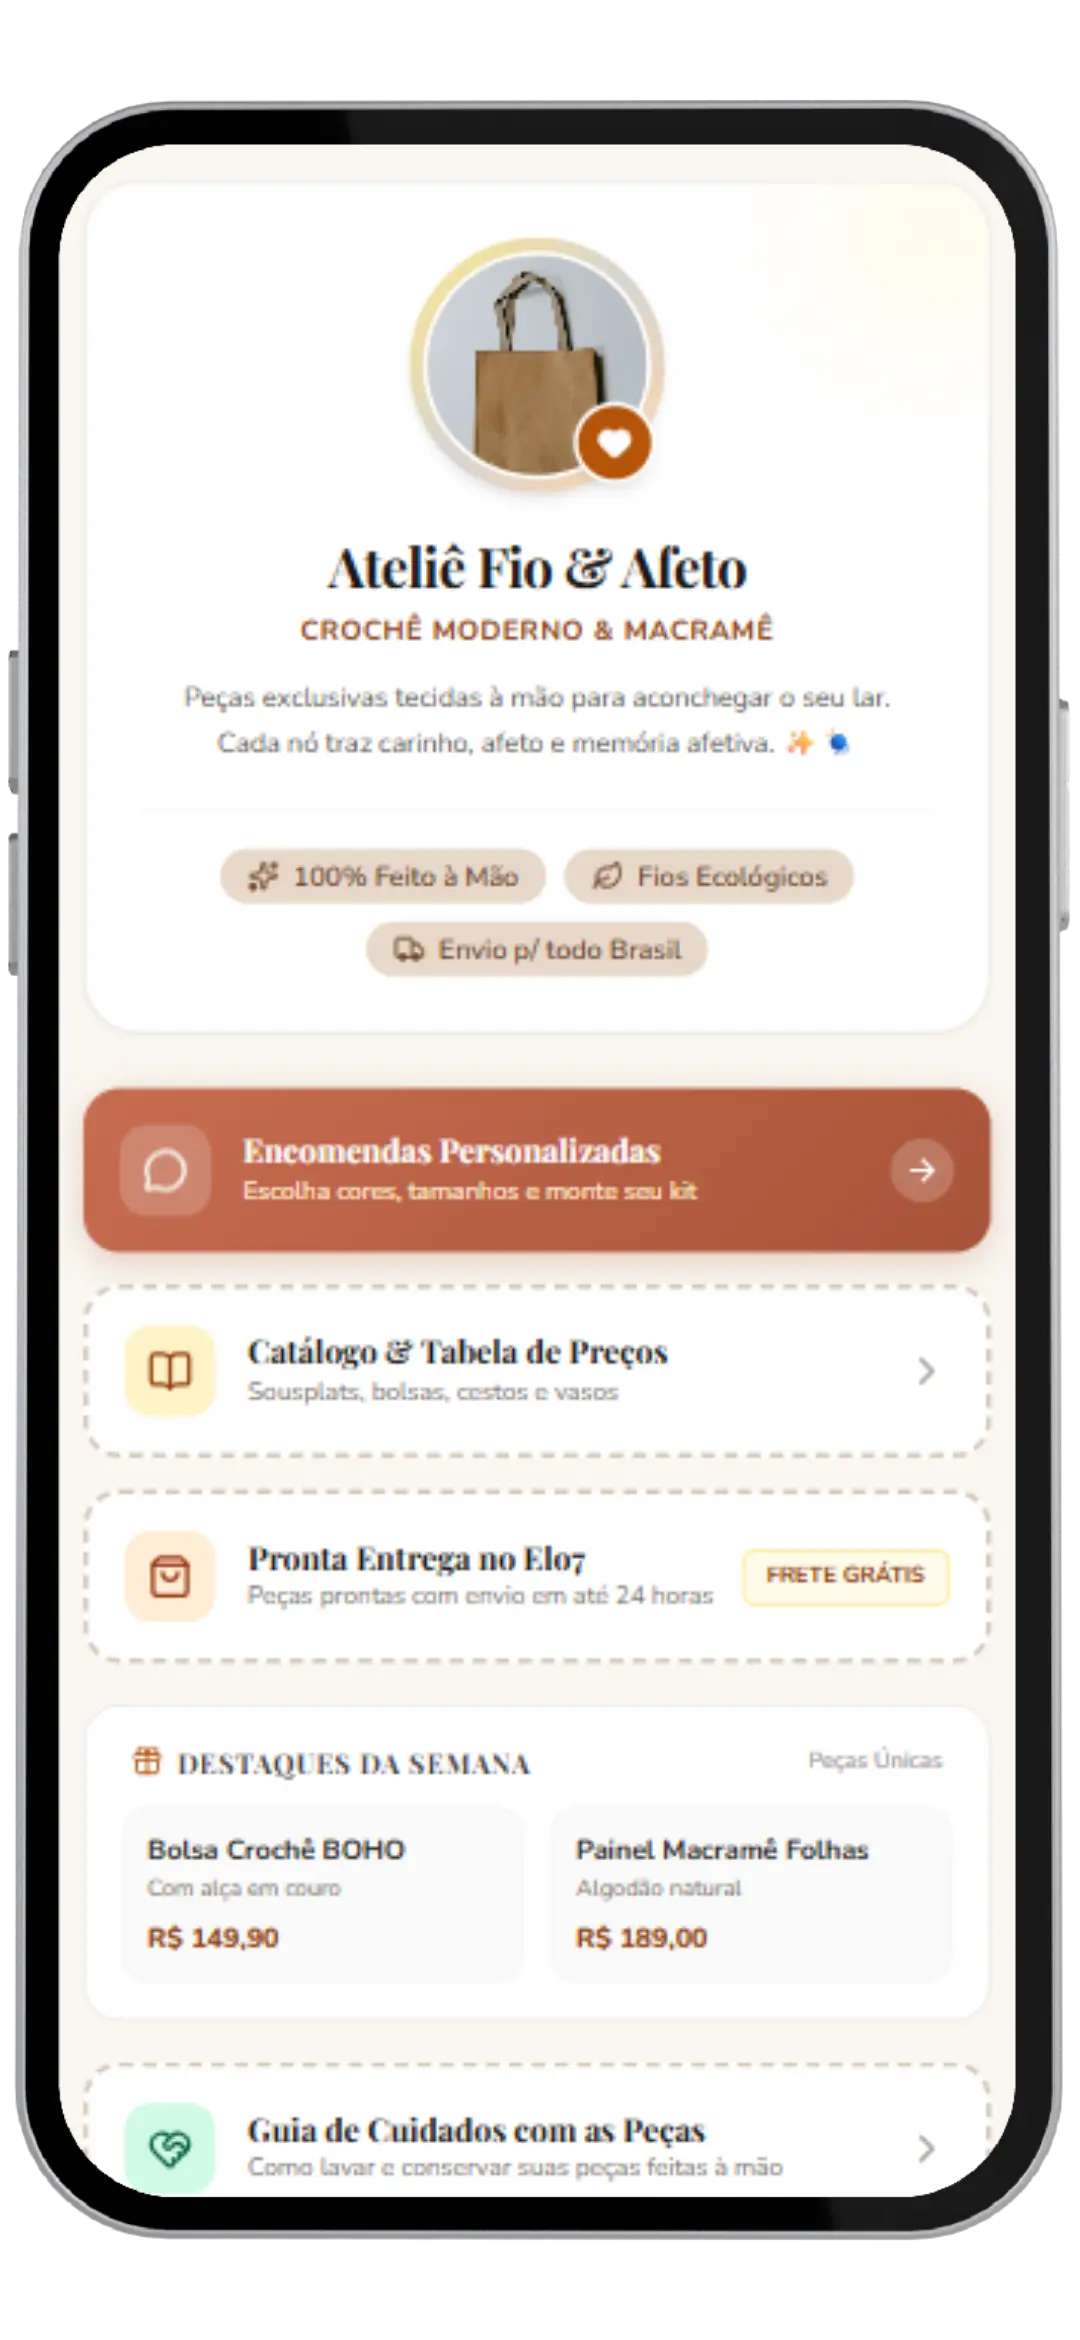
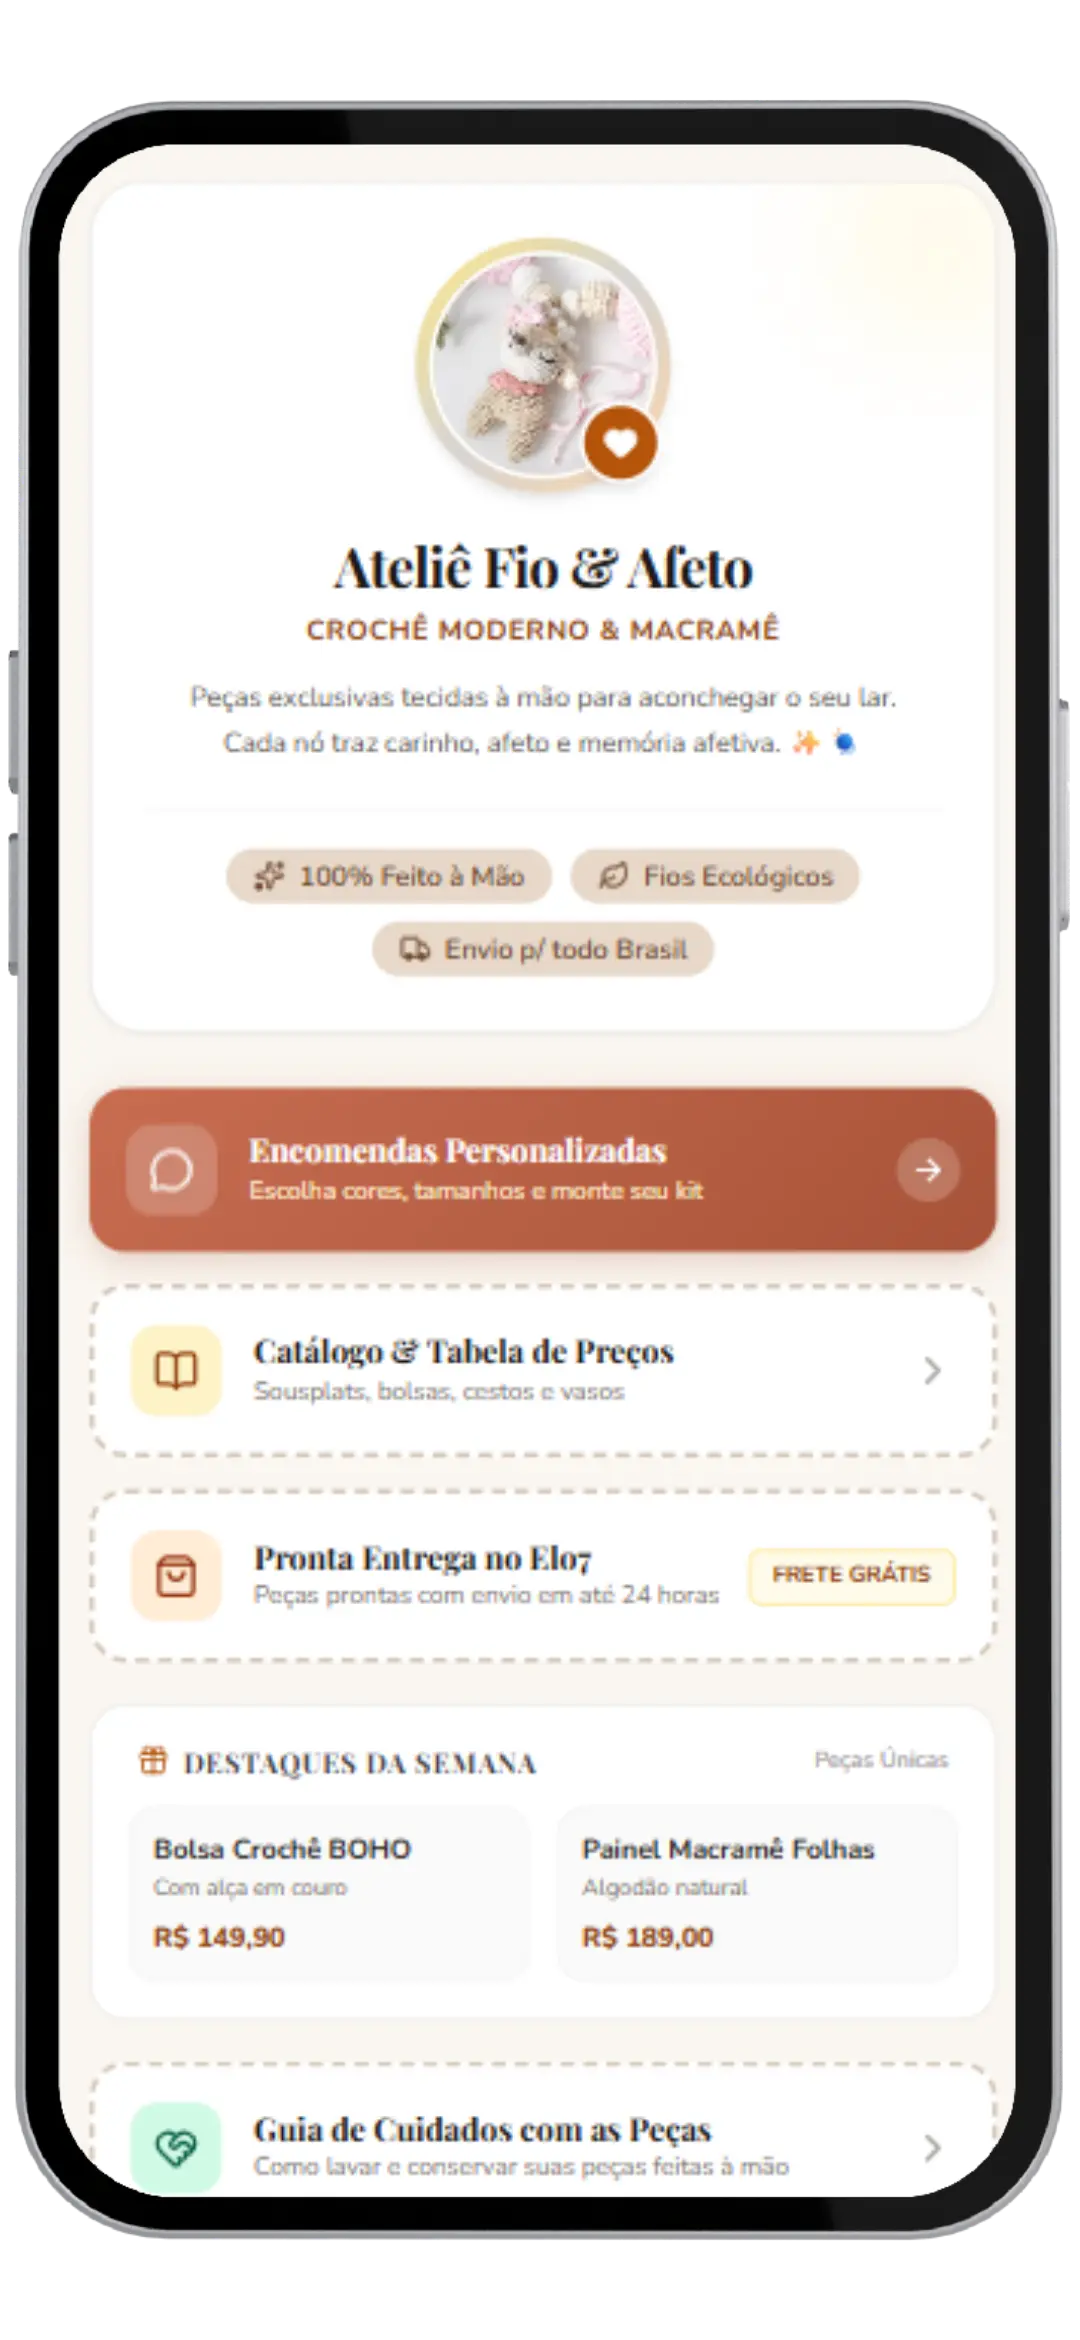
atualização de imagens

diff --git a/Modelos/modelos-comida/hamburgueria.html b/Modelos/modelos-comida/hamburgueria.html
@@ -67,12 +67,13 @@
           Burgers Artesanais & Batata Crocante
         </p>
 
-        <!-- Status de Funcionamento (Aberto/Fechado) -->
+        <!-- Status de Funcionamento (Aberto/Fechado) Dinâmico -->
         <div
-          class="mt-3 inline-flex items-center gap-2 bg-emerald-500/10 border border-emerald-500/30 px-3 py-1 rounded-full text-xs font-bold text-emerald-400"
+          id="status-container"
+          class="mt-3 inline-flex items-center gap-2 px-3 py-1 rounded-full text-xs font-bold transition-all"
         >
-          <span class="w-2 h-2 rounded-full bg-emerald-500 animate-ping"></span>
-          ABERTO AGORA • Entrega rápida
+          <span id="status-ping" class="w-2 h-2 rounded-full"></span>
+          <span id="status-text">CARREGANDO...</span>
         </div>
 
         <!-- Informações Úteis (Tempo de entrega, Frete, Pagamento) -->
@@ -283,9 +284,52 @@
       </footer>
     </main>
 
-    <!-- Script para inicializar Lucide Icons -->
+    <!-- Scripts -->
     <script>
+      // Inicializar Lucide Icons
       lucide.createIcons();
+
+      // Regra de Horário de Funcionamento
+      function verificarHorario() {
+        const agora = new Date();
+        const diaSemana = agora.getDay(); // 0 = Domingo, 1 = Segunda, 2 = Terça, ..., 6 = Sábado
+        const hora = agora.getHours();
+        const minutos = agora.getMinutes();
+
+        // Converte o horário atual em minutos totais desde a meia-noite
+        const tempoAtualEmMinutos = hora * 60 + minutos;
+
+        // Horário de Abertura (18:00 = 1080 min) e Fechamento (23:30 = 1410 min)
+        const horaAbertura = 18 * 60; // 18:00
+        const horaFechamento = 23 * 60 + 30; // 23:30
+
+        // Aberto de Terça (2) a Domingo (0). Segunda (1) é fechado.
+        const diaUtil = diaSemana !== 1;
+        const dentroDoHorario =
+          tempoAtualEmMinutos >= horaAbertura &&
+          tempoAtualEmMinutos < horaFechamento;
+
+        const container = document.getElementById("status-container");
+        const ping = document.getElementById("status-ping");
+        const text = document.getElementById("status-text");
+
+        if (diaUtil && dentroDoHorario) {
+          // ESTADO: ABERTO
+          container.className =
+            "mt-3 inline-flex items-center gap-2 bg-emerald-500/10 border border-emerald-500/30 px-3 py-1 rounded-full text-xs font-bold text-emerald-400";
+          ping.className = "w-2 h-2 rounded-full bg-emerald-500 animate-ping";
+          text.innerText = "ABERTO AGORA • Entrega rápida";
+        } else {
+          // ESTADO: FECHADO
+          container.className =
+            "mt-3 inline-flex items-center gap-2 bg-rose-500/10 border border-rose-500/30 px-3 py-1 rounded-full text-xs font-bold text-rose-400";
+          ping.className = "w-2 h-2 rounded-full bg-rose-500";
+          text.innerText = "FECHADO AGORA • Abrimos às 18h";
+        }
+      }
+
+      // Executa ao carregar a página
+      verificarHorario();
     </script>
   </body>
 </html>

diff --git a/index.css b/index.css
@@ -37,7 +37,7 @@
         text-align: center;
         margin-bottom: 30px;
         padding: 30px 20px;
-        background: linear-gradient(135deg, var(--purple-dark), var(--card-bg));
+        background: linear-gradient(135deg, var(--primary), var(--card-bg));
         border-radius: 16px;
         border: 1px solid rgba(154, 70, 242, 0.2);
         box-shadow: 0 10px 30px rgba(0, 0, 0, 0.4);
@@ -84,7 +84,7 @@
         border-radius: 20px;
         font-size: 0.95rem;
         font-weight: 600;
-        background-color: rgba(58, 1, 112, 0.4);
+        background-color: rgba(68, 11, 121, 0.4);
         border: 1px solid rgba(131, 67, 195, 0.3);
         transition: all 0.3s ease;
       }
@@ -195,6 +195,75 @@
       .btn-view:active {
         transform: scale(0.98);
       }
+      .site-footer {
+  background-color: #111827;
+  color: #f3f4f6;
+  padding: 40px 20px 20px 20px;
+  margin-top: 60px;
+  font-family: inherit;
+}
+
+.footer-container {
+  max-width: 1200px;
+  margin: 0 auto;
+  display: grid;
+  grid-template-columns: repeat(auto-fit, minmax(220px, 1fr));
+  gap: 30px;
+}
+
+.footer-logo {
+  max-width: 150px;
+  height: auto;
+  margin-bottom: 12px;
+}
+
+.footer-brand p {
+  font-size: 0.9rem;
+  color: #9ca3af;
+  line-height: 1.5;
+}
+
+.footer-title {
+  font-size: 1.1rem;
+  margin-bottom: 15px;
+  color: #ffffff;
+}
+
+.footer-links ul {
+  list-style: none;
+  padding: 0;
+  margin: 0;
+}
+
+.footer-links li {
+  margin-bottom: 8px;
+}
+
+.footer-links a {
+  color: #9ca3af;
+  text-decoration: none;
+  transition: color 0.2s;
+}
+
+.footer-links a:hover {
+  color: #ffffff;
+}
+
+.footer-contact p {
+  font-size: 0.9rem;
+  color: #9ca3af;
+  margin-bottom: 8px;
+}
+
+.footer-bottom {
+  max-width: 1200px;
+  margin: 30px auto 0 auto;
+  padding-top: 20px;
+  border-top: 1px solid #374151;
+  text-align: center;
+  font-size: 0.85rem;
+  color: #6b7280;
+}
 
       @media (max-width: 600px) {
         header h1 {
@@ -242,7 +311,7 @@
       }
 
       /* Ajuste para telas de celular */
-      @media (max-width: 600px) {
+      @media (max-width: 768px) {
         .whatsapp-float {
           width: 50px;
           height: 50px;
@@ -254,5 +323,29 @@
           width: 26px;
           height: 26px;
         }
+        .cards-grid {
+    display: flex;
+    flex-wrap: nowrap;
+    overflow-x: auto;
+    scroll-snap-type: x mandatory;
+    gap: 16px;
+    padding-bottom: 12px;
+    
+    /* Melhora a rolagem em telas de toque */
+    -webkit-overflow-scrolling: touch;
+    
+    /* Esconde a barra de rolagem (opcional) */
+    scrollbar-width: none; /* Firefox */
+  }
+
+  .cards-grid::-webkit-scrollbar {
+    display: none; /* Chrome, Safari e Edge */
+  }
+
+  .card {
+    flex: 0 0 80%; /* Cada card ocupa 80% da tela */
+    max-width: 300px;
+    scroll-snap-align: center; /* Trava o card centralizado após o deslize */
+  }
       }
    

diff --git a/index.html b/index.html
@@ -429,5 +429,60 @@
         />
       </svg>
     </a>
+
+    <footer class="site-footer">
+      <div class="footer-container">
+        <!-- Coluna 1: Logo e Descrição -->
+        <div class="footer-brand">
+          <img
+            src="./Assets/logo.png"
+            alt="Logo da Empresa"
+            class="footer-logo"
+          />
+          <p>
+            Criação de sites profissionais e templates de alta conversão para o
+            seu negócio.
+          </p>
+        </div>
+
+        <!-- Coluna 2: Links Rápidos / Portfólio -->
+        <div class="footer-links">
+          <h4 class="footer-title">Navegação</h4>
+          <ul>
+            <li>
+              <a
+                href="https://jakdigitaldesign.com"
+                target="_blank"
+                rel="noopener"
+                >Meu Portfólio</a
+              >
+            </li>
+            <li><a href="#advogados">Modelos</a></li>
+            <li>
+              <a
+                href="https://wa.me/5541984940848"
+                target="_blank"
+                rel="noopener"
+                >Contato</a
+              >
+            </li>
+          </ul>
+        </div>
+
+        <!-- Coluna 3: Contato e Redes -->
+        <div class="footer-contact">
+          <h4 class="footer-title">Contato</h4>
+          <p>WhatsApp: (41) 98494-0848</p>
+          <p>Email: contato@jakdigitaldesign.com</p>
+        </div>
+      </div>
+
+      <div class="footer-bottom">
+        <p>
+          &copy; 2026 Todos os direitos reservados. Desenvolvido por Jak Digital
+          Design.
+        </p>
+      </div>
+    </footer>
   </body>
 </html>
